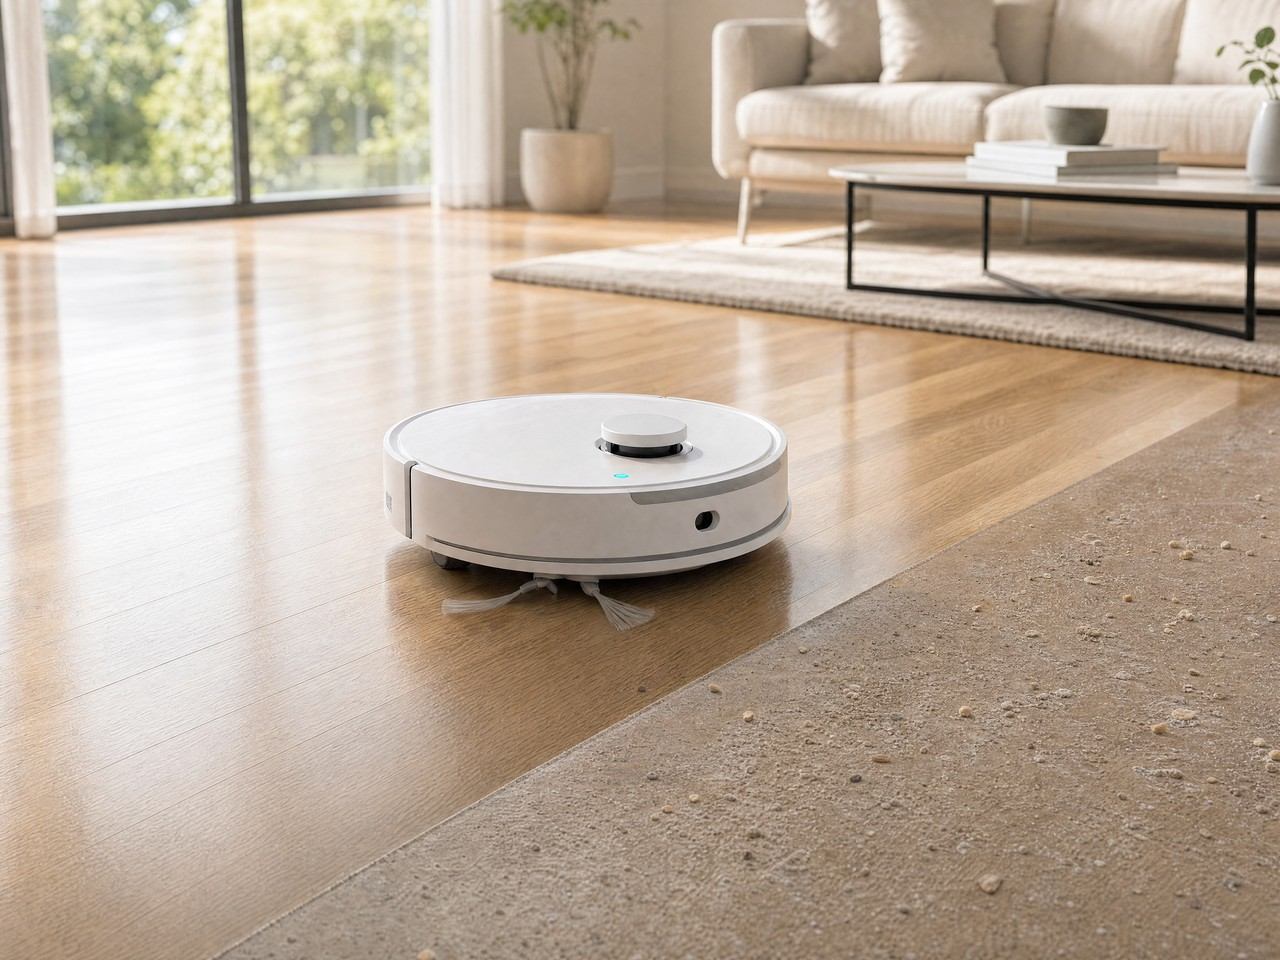
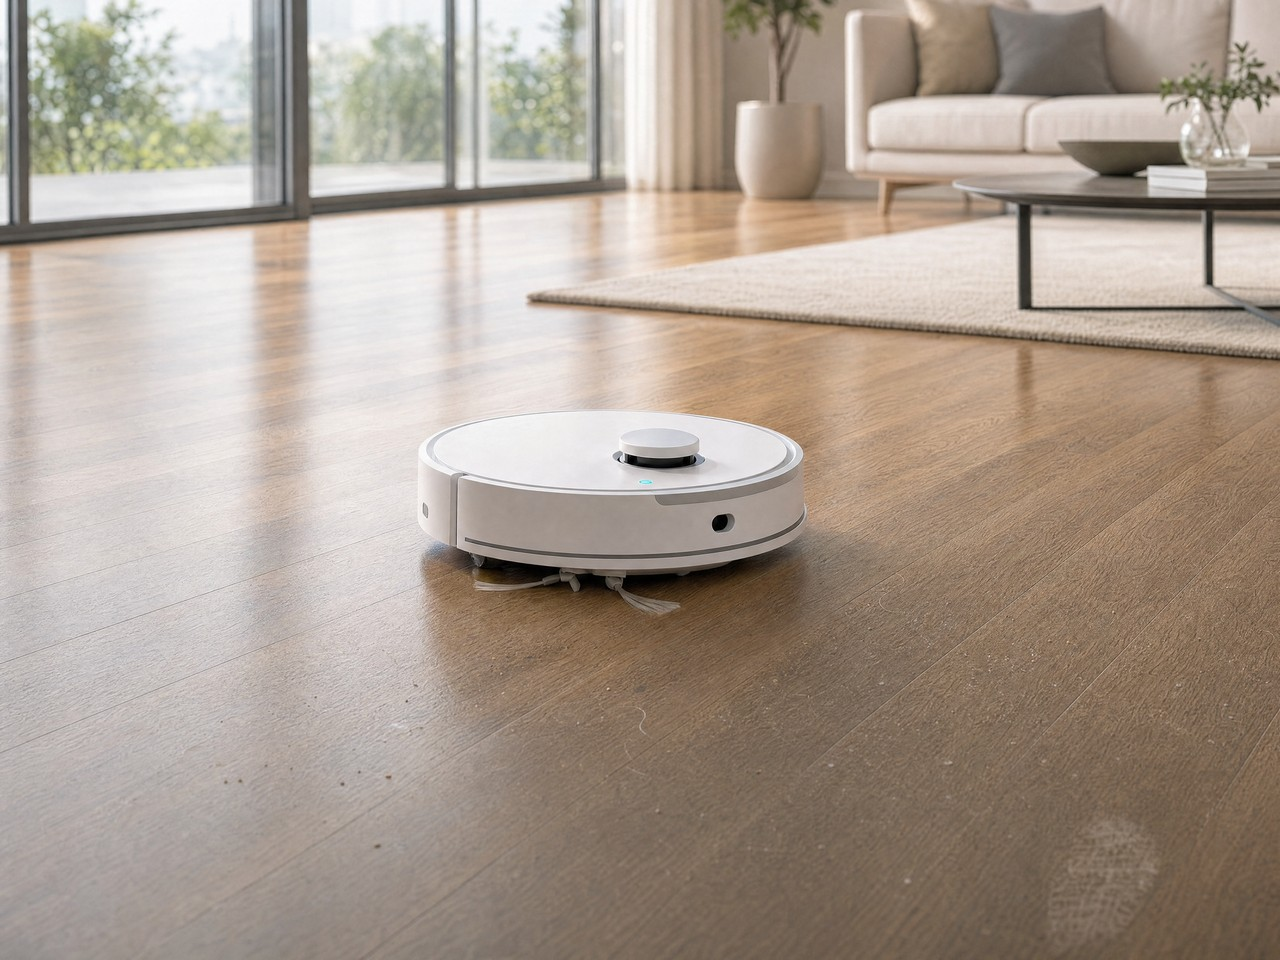
fix(slides): блок 'Real results' - реалистичное до/после вместо щебёнки
Гена: грязная половина выглядела как гравий/песок, в квартире так не бывает.
Перегенерил: слева чистый глянцевый пол с отражениями, справа лёгкий налёт
бытовой пыли + пара пятен, без песка/камней. fileUpdate innov-results.jpg
(handle сохранён), ?v= бампнут в зеркалах.

diff --git a/preview-live.html b/preview-live.html
@@ -1,6 +1,6 @@
 <!doctype html><html lang="en"><head><meta charset="utf-8">
 <meta http-equiv="Cache-Control" content="no-cache"><meta name="viewport" content="width=device-width, initial-scale=1"><title>GlideHome preview</title>
-<link rel="stylesheet" href="shopify/glide-home.css?v=1788441268"><style>
+<link rel="stylesheet" href="shopify/glide-home.css?v=1788442088"><style>
   *{box-sizing:border-box} body{margin:0;font-family:-apple-system,BlinkMacSystemFont,"Segoe UI",Roboto,Arial,sans-serif;color:#0f2831}
   .gh-note{background:#0f2831;color:#8fe6f0;font-size:12px;padding:7px 16px;text-align:center}
   #hdr{position:sticky;top:0;z-index:50;background:rgba(255,255,255,.92);backdrop-filter:blur(10px);border-bottom:1px solid #e0e8ea}
@@ -130,7 +130,7 @@
   </div>
   <div class="glide-feature glide-reveal"><div class="glide-feature-media"><img src="https://cdn.shopify.com/s/files/1/0740/1878/3409/files/innov-app.jpg?v=1788441211" alt="GlideHome app" loading="lazy"></div><div class="glide-feature-text"><span class="glide-eyebrow">GlideHome app</span><h3>Watch it work from your phone</h3><p>Live map with the robot's position and path, a fill-in progress bar, schedules and no-go zones. Start it from the office, come home to it done.</p></div></div>
   <div class="glide-feature glide-reveal"><div class="glide-feature-media"><img src="https://cdn.shopify.com/s/files/1/0740/1878/3409/files/innov-coverage.jpg?v=1788441214" alt="Proven coverage" loading="lazy"></div><div class="glide-feature-text"><span class="glide-eyebrow">Proven coverage</span><h3>A planned path into every corner</h3><p>It maps the room first, then cleans in tight even rows that reach the walls, wrap the furniture legs and go under the sofa &mdash; not random circles that miss half the floor.</p></div></div>
-  <div class="glide-feature glide-reveal"><div class="glide-feature-media"><img src="https://cdn.shopify.com/s/files/1/0740/1878/3409/files/innov-results.jpg?v=1788441217" alt="Real results" loading="lazy"></div><div class="glide-feature-text"><span class="glide-eyebrow">Real results</span><h3>Glass without streaks, floors you'd walk barefoot on</h3><p>Microfibre and a measured water flow lift grease and grime in one pass. The line between the cleaned strip and the rest is the whole point.</p></div></div>
+  <div class="glide-feature glide-reveal"><div class="glide-feature-media"><img src="https://cdn.shopify.com/s/files/1/0740/1878/3409/files/innov-results.jpg?v=1788442071" alt="Real results" loading="lazy"></div><div class="glide-feature-text"><span class="glide-eyebrow">Real results</span><h3>Glass without streaks, floors you'd walk barefoot on</h3><p>Microfibre and a measured water flow lift grease and grime in one pass. The line between the cleaned strip and the rest is the whole point.</p></div></div>
   <div class="glide-feature glide-reveal"><div class="glide-feature-media"><img src="https://cdn.shopify.com/s/files/1/0740/1878/3409/files/innov-safety.jpg?v=1788433061" alt="Triple fall-safety" loading="lazy"></div><div class="glide-feature-text"><span class="glide-eyebrow">Triple fall-safety</span><h3>Stays on the glass even if the power drops</h3><p>A suction turbine, a built-in UPS battery and a safety rope in the box. Pull the plug and the DYP keeps its grip and lowers gently instead of falling.</p></div></div>
 </div></section>
 
@@ -198,5 +198,5 @@
     </div>
   </div>
 </section>
-<script src="shopify/glide-home.js?v=1788441268" defer></script>
+<script src="shopify/glide-home.js?v=1788442088" defer></script>
 </body></html>

diff --git a/preview-shopify.html b/preview-shopify.html
@@ -1,6 +1,6 @@
 <!doctype html><html lang="en"><head><meta charset="utf-8">
 <meta http-equiv="Cache-Control" content="no-cache"><meta name="viewport" content="width=device-width, initial-scale=1"><title>GlideHome preview</title>
-<link rel="stylesheet" href="shopify/glide-home.css?v=1788441268"><style>
+<link rel="stylesheet" href="shopify/glide-home.css?v=1788442088"><style>
   *{box-sizing:border-box} body{margin:0;font-family:-apple-system,BlinkMacSystemFont,"Segoe UI",Roboto,Arial,sans-serif;color:#0f2831}
   .gh-note{background:#0f2831;color:#8fe6f0;font-size:12px;padding:7px 16px;text-align:center}
   #hdr{position:sticky;top:0;z-index:50;background:rgba(255,255,255,.92);backdrop-filter:blur(10px);border-bottom:1px solid #e0e8ea}
@@ -130,7 +130,7 @@
   </div>
   <div class="glide-feature glide-reveal"><div class="glide-feature-media"><img src="https://cdn.shopify.com/s/files/1/0740/1878/3409/files/innov-app.jpg?v=1788441211" alt="GlideHome app" loading="lazy"></div><div class="glide-feature-text"><span class="glide-eyebrow">GlideHome app</span><h3>Watch it work from your phone</h3><p>Live map with the robot's position and path, a fill-in progress bar, schedules and no-go zones. Start it from the office, come home to it done.</p></div></div>
   <div class="glide-feature glide-reveal"><div class="glide-feature-media"><img src="https://cdn.shopify.com/s/files/1/0740/1878/3409/files/innov-coverage.jpg?v=1788441214" alt="Proven coverage" loading="lazy"></div><div class="glide-feature-text"><span class="glide-eyebrow">Proven coverage</span><h3>A planned path into every corner</h3><p>It maps the room first, then cleans in tight even rows that reach the walls, wrap the furniture legs and go under the sofa &mdash; not random circles that miss half the floor.</p></div></div>
-  <div class="glide-feature glide-reveal"><div class="glide-feature-media"><img src="https://cdn.shopify.com/s/files/1/0740/1878/3409/files/innov-results.jpg?v=1788441217" alt="Real results" loading="lazy"></div><div class="glide-feature-text"><span class="glide-eyebrow">Real results</span><h3>Glass without streaks, floors you'd walk barefoot on</h3><p>Microfibre and a measured water flow lift grease and grime in one pass. The line between the cleaned strip and the rest is the whole point.</p></div></div>
+  <div class="glide-feature glide-reveal"><div class="glide-feature-media"><img src="https://cdn.shopify.com/s/files/1/0740/1878/3409/files/innov-results.jpg?v=1788442071" alt="Real results" loading="lazy"></div><div class="glide-feature-text"><span class="glide-eyebrow">Real results</span><h3>Glass without streaks, floors you'd walk barefoot on</h3><p>Microfibre and a measured water flow lift grease and grime in one pass. The line between the cleaned strip and the rest is the whole point.</p></div></div>
   <div class="glide-feature glide-reveal"><div class="glide-feature-media"><img src="https://cdn.shopify.com/s/files/1/0740/1878/3409/files/innov-safety.jpg?v=1788433061" alt="Triple fall-safety" loading="lazy"></div><div class="glide-feature-text"><span class="glide-eyebrow">Triple fall-safety</span><h3>Stays on the glass even if the power drops</h3><p>A suction turbine, a built-in UPS battery and a safety rope in the box. Pull the plug and the DYP keeps its grip and lowers gently instead of falling.</p></div></div>
 </div></section>
 
@@ -198,5 +198,5 @@
     </div>
   </div>
 </section>
-<script src="shopify/glide-home.js?v=1788441268" defer></script>
+<script src="shopify/glide-home.js?v=1788442088" defer></script>
 </body></html>
